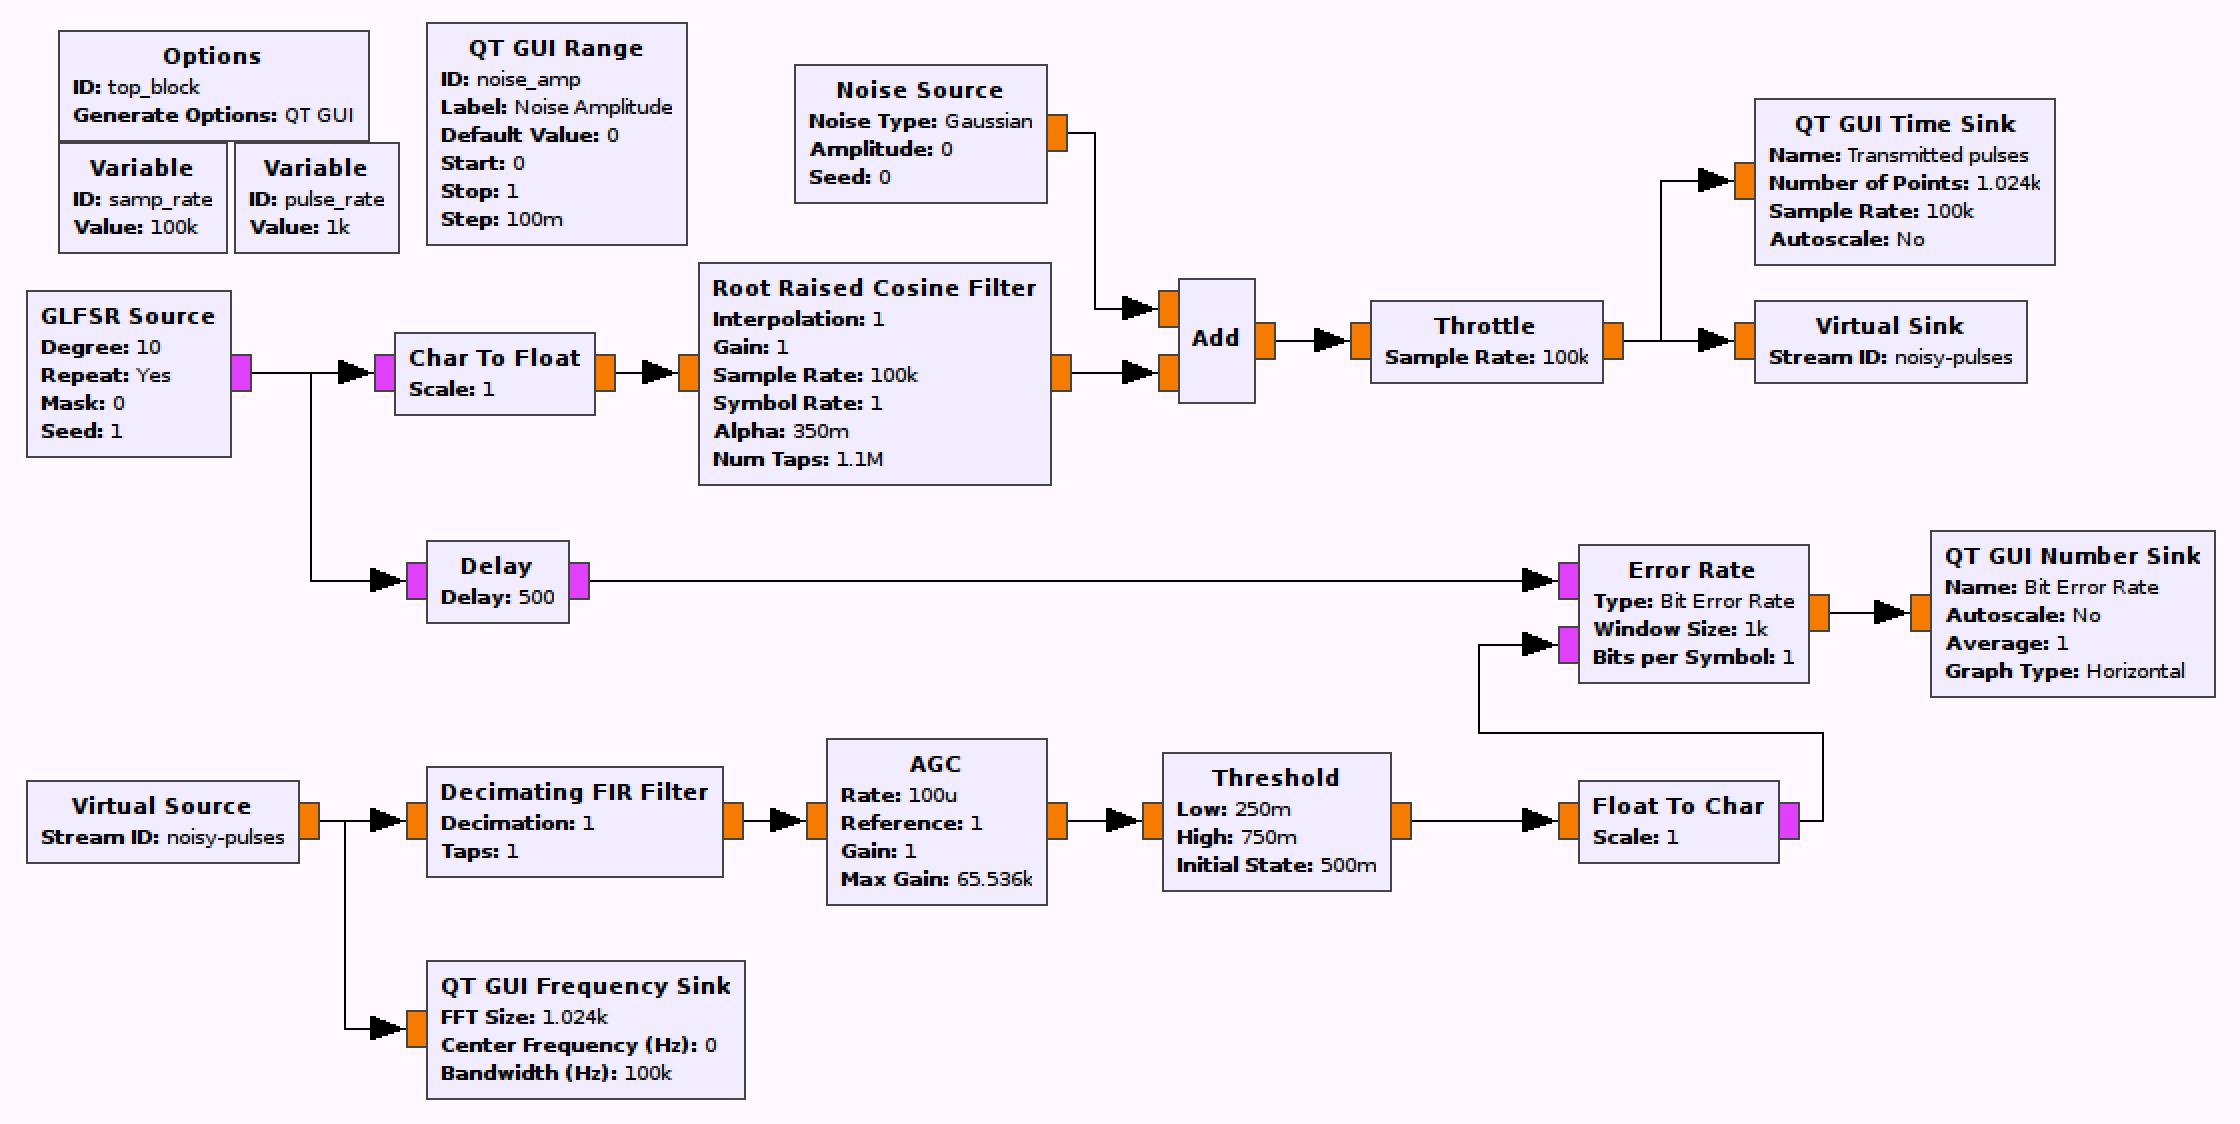
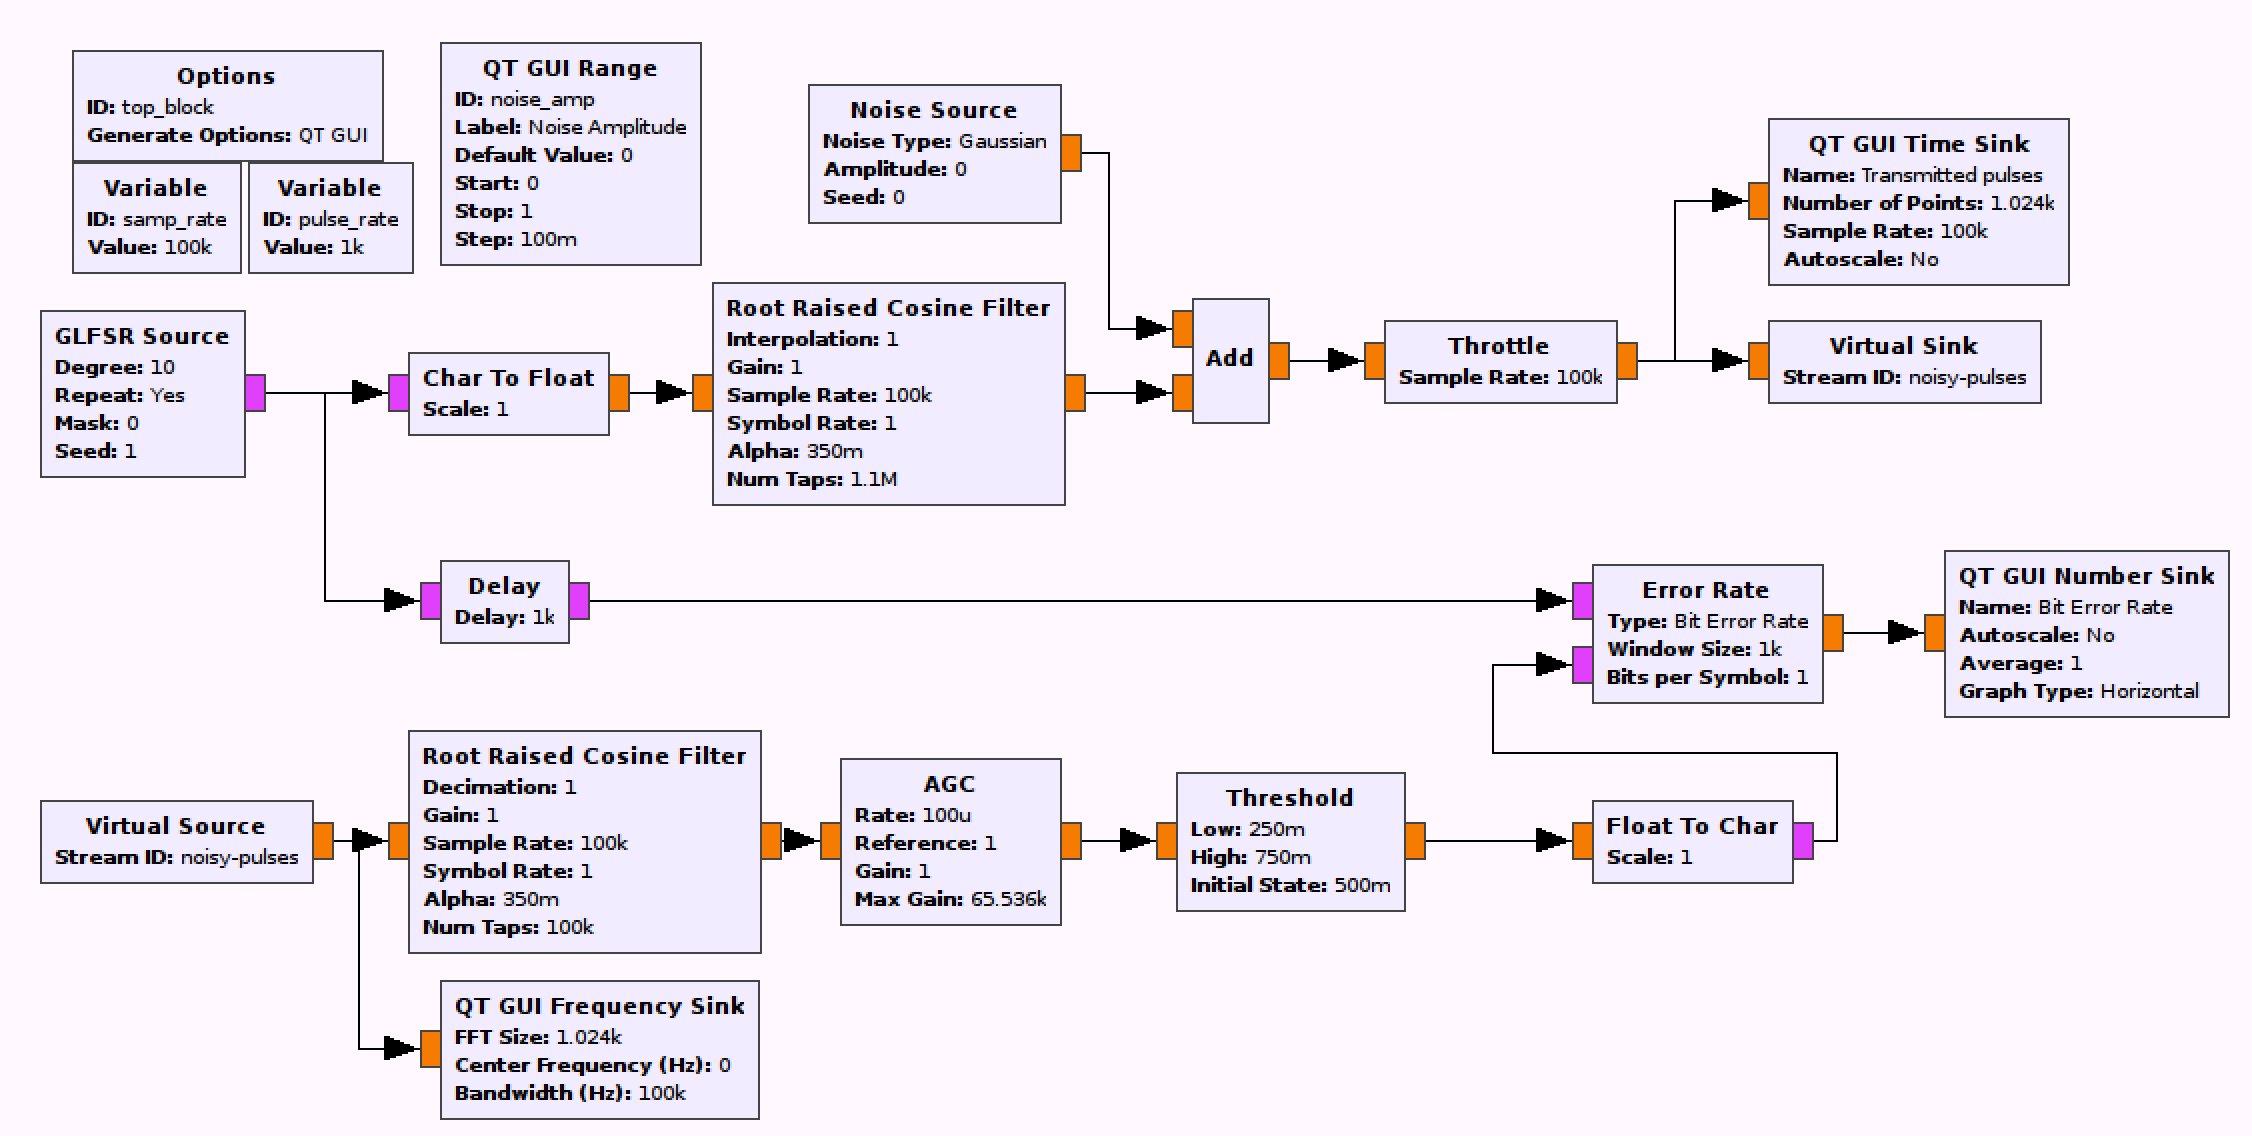
changing to rrc receiver chain

diff --git a/_ece450/lab1/impulse-lpf-shaping.md b/_ece450/lab1/impulse-lpf-shaping.md
@@ -42,7 +42,7 @@ Construct the following GRC flowgraph.
   - The "FIR Type" should be "Float->Float (Interpolating)",
   - the cutoff frequency has to capture the message frequency, so setting it to twice the pulse rate (`pulse_rate*2`) provides some wiggle room in the filter passband.
 
-- The WGN (White Gaussian Noise) is controlled by a *QT GUI Range* block. The "Amplitude" here indicates the noise standard deviation which be used for estimating the noise power. The noise power of pure White Gaussian noise is the variance of the distribution (considering that our distribution is zero-mean).
+- The WGN (White Gaussian Noise) is controlled by a *QT GUI Range* block. The "Amplitude" here indicates the noise standard deviation which be used for estimating the noise power. The noise power of pure White Gaussian noise is the variance of the distribution (text section 3.1.3.4).
 
 - The *Virtual Sink* and *Virtual Source* blocks can be considered as connected by an "invisible" line on the flowgraph. They can be used for more complex tasks, but here they just keep the flowgraph from being criss-crossed with lines. They are also used to simulate a "transmitter" and "receiver". In this case the *Virtual Sink* transmits the noisy baseband waveform while the *Virtual Source* receives it.
 
@@ -55,9 +55,9 @@ Construct the following GRC flowgraph.
   - When the input signal transitions from above to below the "Low" threshold, the output becomes a 0.
   - For our input an intelligent starting place would be to have 0.25 and 0.75 as the threshold bounds, but you should set up two *QT GUI Range* blocks to control these values.
 
-- To evaluate the system performance, we can compute the BER of the system by using the *Error Rate* block. This block compares the two input bit streams. The "Window Size" parameter determines the number of samples used for the BER computation. Use a Window Size of 1000000 and set the Bits per Symbol to 1.
+- To evaluate the system performance, we can compute the BER of the system by using the *Error Rate* block. This block compares the two input bit streams. The "Window Size" parameter determines the number of samples used for the BER computation. Use a Window Size of 10000000 and set the Bits per Symbol to 1.
 
-{% include alert.html title="Note" content="Ensure the Window Size is at least 1 million samples, if your computer is able, increase this number as much as you can. This directly impacts the resolution of your BER measurements. The larger the window, the more accurate the measurement!" %}
+{% include alert.html title="Note" content="Ensure the Window Size is at least 10 million samples, if your computer is able, increase this number as much as you can. This directly impacts the resolution of your BER measurements. The larger the window, the more accurate the measurement!" %}
 
 - The output of the *Error Rate* block is a percentage (from 0 to 1) so set the limits of the *QT GUI Number Sink* to reflect this.
 
@@ -95,12 +95,14 @@ Because the "received" bitstream is processed by more blocks before feeding into
 
 - Once you have the delay parameter set, you can disable the blocks you used to capture that value.
 
-- Now collect a dataset of SNR and BER at noise amplitudes of 0.0, 0.1, 0.2, ... 0.9, 1.0.
+<!-- - Now collect a dataset of SNR and BER at noise amplitudes of 0.0, 0.1, 0.2, ... 0.9, 1.0.
   - The Bit Error Rate can be read off of the *QT GUI Number Sink* output. After changing the noise amplitude, let the BER stabilize before recording it. Record it to as many decimal places as you feel confident about.
   - To read the SNR, activate the "Control Panel" option in the *QT GUI Frequency Sink* block parameters. Then, while the flowgraph is running, set "Trace Options" to "Max Hold" and make sure the "Avg" slider is set to maximum. This should make it easier to read the signal SNR off of the generated spectrum.
-  - As you record these values, observe the transmitted noisy pulses and the spectrum. Is the spectral shape what you expected?
+  - As you record these values, observe the transmitted noisy pulses and the spectrum. Is the spectral shape what you expected? -->
 
-- Offset the delay by a single sample. Check the BER with 0 noise amplitude.
+- Record the BER rate at SNRs of 60 dB, 30 dB and 10 dB.
+
+- Offset the delay by a single sample. Check the BER with no added noise.
 
 {% include alert.html title="Deliverable question 1" class="info" content="What do your observations suggest about the relative impact on a communications system between a timing offset and noise?"%}
 

diff --git a/_ece450/lab1/impulse-rrc-shaping.md b/_ece450/lab1/impulse-rrc-shaping.md
@@ -30,8 +30,6 @@ Construct the following GRC flowgraph. It is very similar to the previous pulse 
   ![impulses-rrc-blank-flowgraph.png](figures/impulses-rrc-blank-flowgraph.png)
   __*Blank RRC pulse shaping flowgraph*__
 
-- The receiver chain is unchanged from the LPF version.
-
 - The tranmitter chain is now pulse shaping with a *Root Raised Cosine Filter* block.
   - The filter is of type "Float->Float (Interpolating)".
   - The filter roll-off factor ($$\alpha$$) indirectly specifies the bandwidth of the filter. Set $$\alpha=0.35$$.
@@ -40,7 +38,13 @@ Construct the following GRC flowgraph. It is very similar to the previous pulse 
   - The interpolation factor is the same as for the previous pulse-shaping methods (and for all pulse shaping methods it is the number of samples per pulse when coming from a bit stream to a waveform).
   - The gain can be found in the same way as with the LPF pulse shaping. Measure the amplitude and set the gain such that the shaped pulses are 1 or 0.
 
-- The delay can be found as before. It is 500 samples with the above listed filter parameters.
+- The receiver chain is now using a matching *Root Raised Cosine Filter* to obtain a final pulse shape that is a raised cosine (review [the theory section]({% link _ece450/lab1/theory.md %})).
+  - The filter is of type "Float->Float (Decimating)"
+  - Set the number of taps to the sampling rate.
+  - Set the symbol rate and decimation rates appropriately.
+  - Do not change the gain, the AGC is managing this afterwards.
+
+- The delay can be found as before. It is 1000 samples with the above listed filter parameters.
 
 - Now collect a dataset of SNR and BER at noise amplitudes of 0.0, 0.1, 0.2, ... 0.9, 1.0.
   - The Bit Error Rate can be read off of the *QT GUI Number Sink* output. After changing the noise amplitude, let the BER stabilize before recording it.
